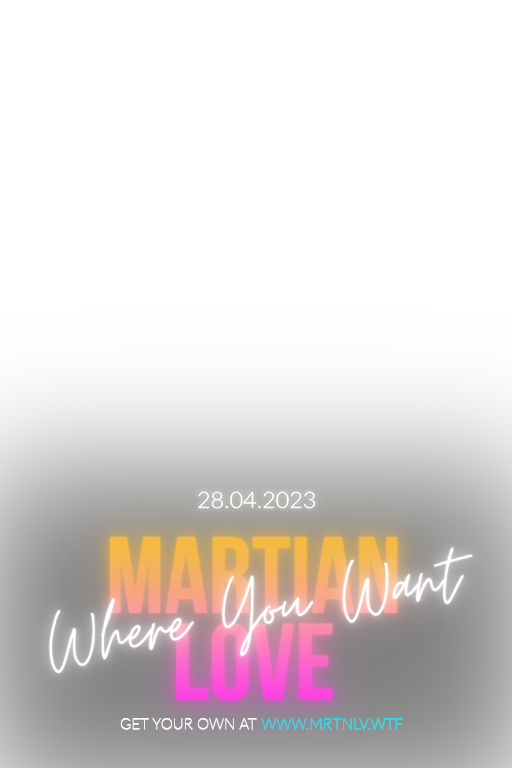
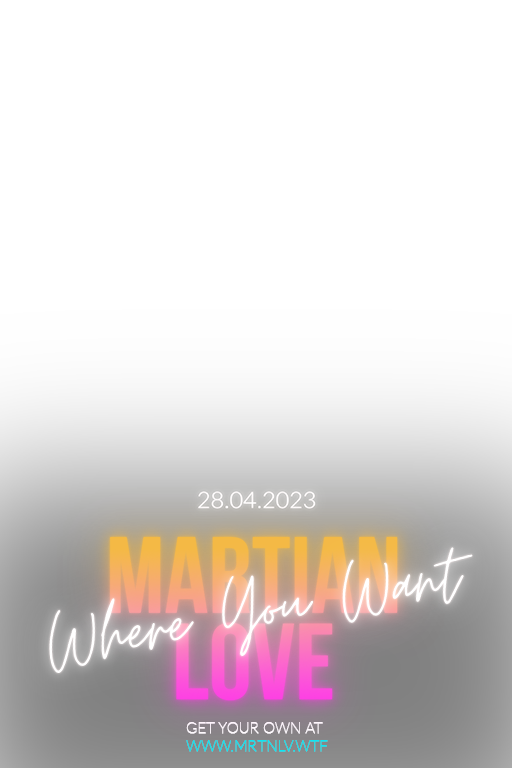
Added timestamp to google sheets, updated model to be used, and the frame.png file

Changed region(s): [[0.0, 0.9375, 1.0, 1.0]]

diff --git a/api/prompt.py b/api/prompt.py
@@ -5,6 +5,8 @@ from starlette.websockets import WebSocketState
 from io import BytesIO
 import base64
 import asyncio
+from datetime import datetime
+import pytz
 
 from services.google_sheets import GoogleSheets
 from services.repository import PromptRepository
@@ -13,6 +15,12 @@ from services.banana_client import start_image_generation, check_image_generatio
 from db.database import SessionLocal
 
 router = APIRouter()
+# Set the timezone to Bangladesh Time
+bangladesh_tz = pytz.timezone("Asia/Dhaka")
+# Get the current timestamp in the specified timezone
+current_timestamp = datetime.now(bangladesh_tz)
+# Format the timestamp in "DD/MM/YYYY HH:mm:ss"
+formatted_timestamp = current_timestamp.strftime("%d/%m/%Y %H:%M:%S")
 
 @router.websocket("/ws")
 async def websocket_endpoint(websocket: WebSocket):
@@ -27,15 +35,17 @@ async def websocket_endpoint(websocket: WebSocket):
 
     while True:
         try:
-            data = await websocket.receive_text()
-            message = json.loads(data)
+            ws_data = await websocket.receive_text()
+            message = json.loads(ws_data)
             action = message.get("action")
 
             if action == "start":
                 prompt = message["prompt"]
                 gs = GoogleSheets()
                 pr.update_by_uuid(session_uuid, text=prompt)
-                # gs.append_row(data)
+                data["prompt"] = prompt
+                data["timestamp"] = formatted_timestamp
+                gs.append_row(data)
                 call_id = await create_prompt(prompt)
                 if call_id is None:
                     start_response = {"status": "error", "message": "Failed to start image generation"}

diff --git a/services/banana_client.py b/services/banana_client.py
@@ -57,7 +57,7 @@ async def check_image_generation(call_id: str):
 
 def _prepare_model_inputs(prompt):
     model_inputs = {
-        'prompt': f'(synthwve style nvinkpunk digital illustration of {prompt}, incorporating neon yellow/blue/purple/pink, blending retro and nightclub vibes, in the style of Yoji Shinkawa, trending on artstation:1.4), neon blue/yellow/purple glow background, concert stage, bright colors, Digital art, glow effects, render, 8k, octane render, cinema 4d, blender',
+        'prompt': f'digital illustration of ({prompt}:1.6) trending on artstation, incorporating neon yellow/blue/purple/pink, blending retro and nightclub vibes',
         'negative': 'green, logo, Glasses, Watermark, bad artist, blur, blurry, text, b&w, 3d, bad art, poorly drawn, disfigured, deformed, extra limbs, ugly hands, extra fingers, canvas frame, cartoon, 3d, disfigured, bad art, deformed, extra limbs, weird colors, blurry, duplicate, morbid, mutilated, out of frame, extra fingers, mutated hands, poorly drawn hands, poorly drawn face, mutation, deformed, ugly, blurry, bad anatomy, bad proportions, extra limbs, disfigured, out of frame, ugly, extra limbs, bad anatomy, gross proportions, malformed limbs, missing arms, missing legs, extra arms, extra legs, mutated hands, fused fingers, too many fingers, long neck, Photoshop, video game, ugly, tiling, poorly drawn hands, poorly drawn feet, poorly drawn face, out of frame, mutation, mutated, extra limbs, extra legs, extra arms, disfigured, deformed, cross-eye, body out of frame, blurry, bad art, bad anatomy, 3d render',
         'num_inference_steps': 50,
         'guidance_scale': 7

diff --git a/services/google_sheets.py b/services/google_sheets.py
@@ -11,7 +11,7 @@ class GoogleSheets:
     def append_row(self, data):
         try:
             sheet = self.gc.open("ML Music Video Prompts").sheet1
-            sheet.append_row([data["uuid"], data["prompt"]])
+            sheet.append_row([data["uuid"], data["prompt"], data["timestamp"]])
         except Exception as e:
             print(f"Failed to append row to Google Sheets. Error: {e}")
         finally:

diff --git a/core/config.py b/core/config.py
@@ -22,7 +22,7 @@ class Settings(BaseSettings):
     RATE_LIMIT_USE_TIME_FRAME: bool = False
 
     BANANA_API_KEY: str = "3a79eef5-7ec7-40ef-be8f-be757e58f6e0"
-    BANANA_MODEL_KEY: str = "12267ac2-0c96-4921-9c38-1900638af167"
+    BANANA_MODEL_KEY: str = "9edbdd67-2078-4eff-935f-6a0b62c869f3"
 
     @validator("SQLALCHEMY_DATABASE_URI")
     def check_database_url(cls, v: str) -> str:
